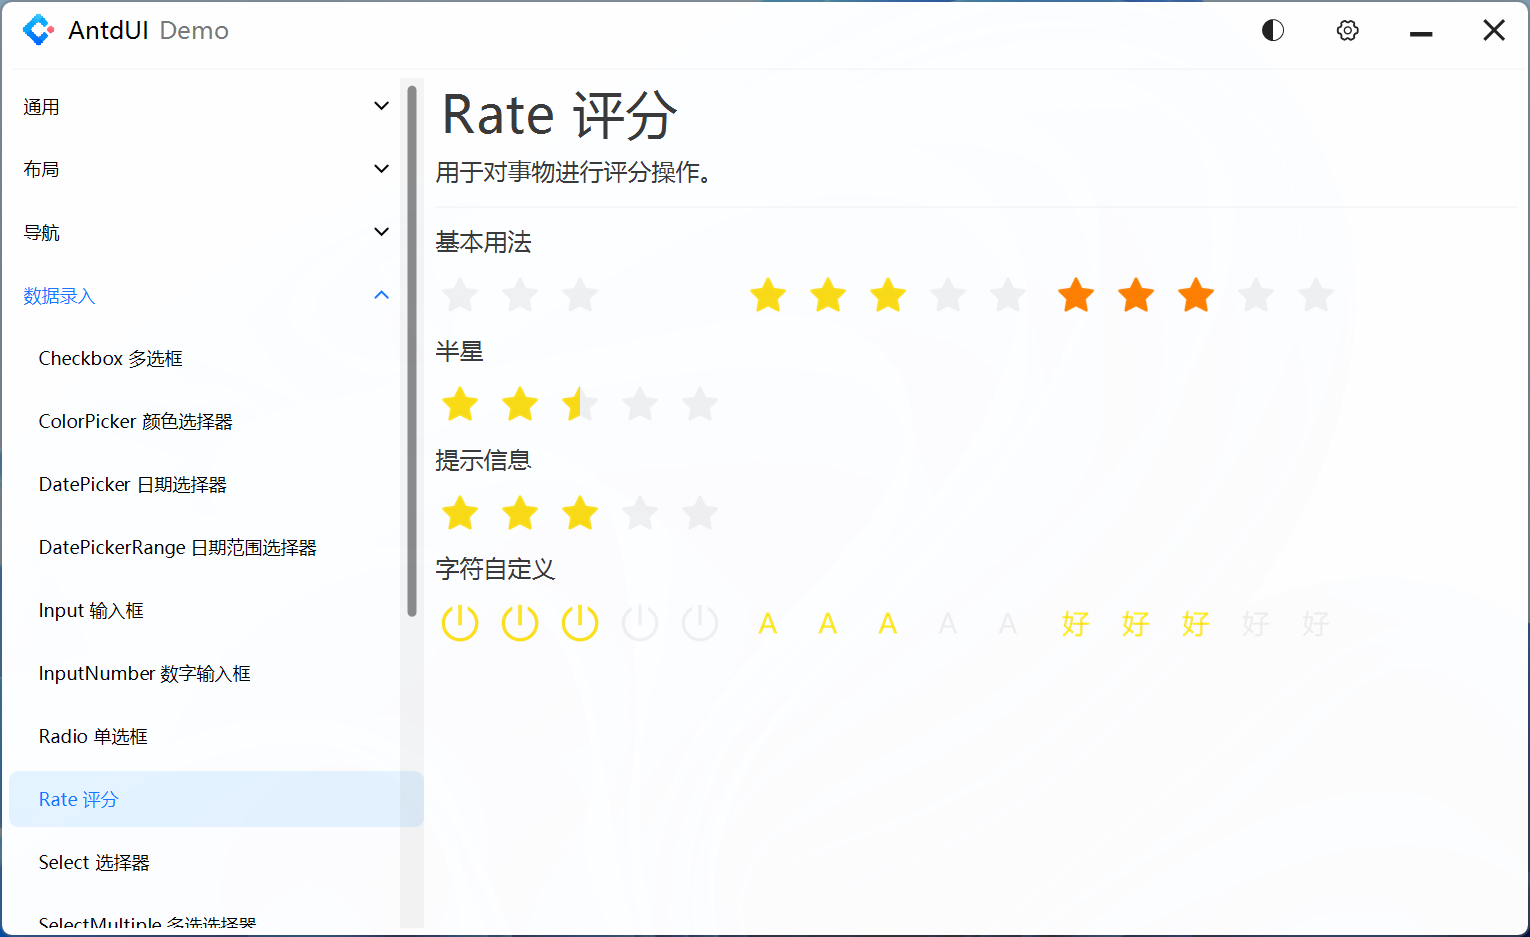
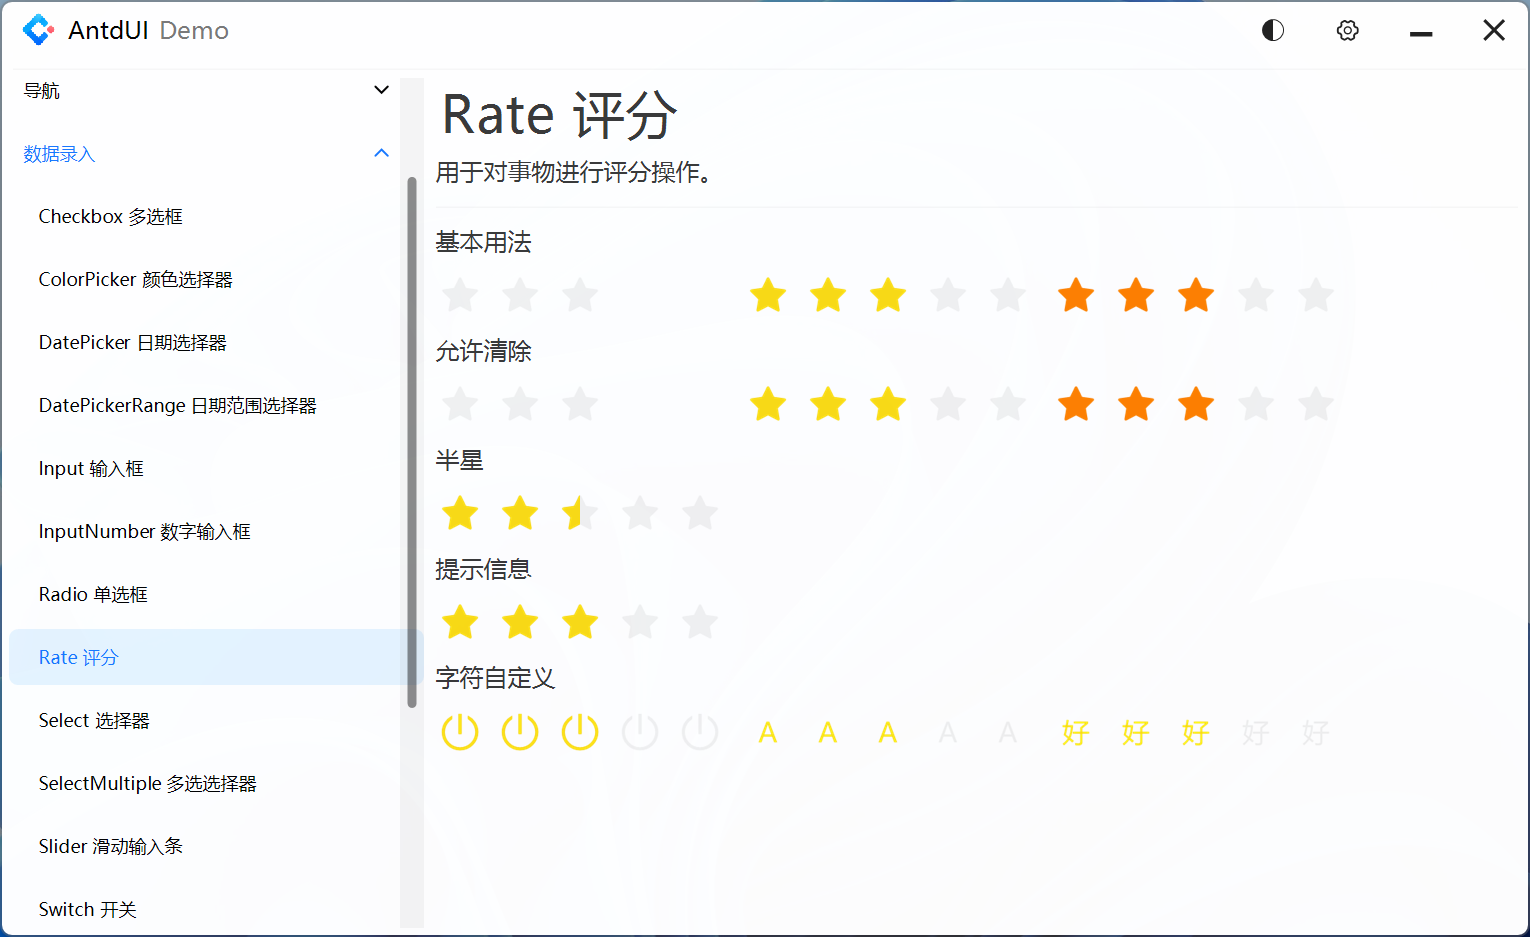
Rate支持清除

diff --git a/Views/RateDemo.Designer.cs b/Views/RateDemo.Designer.cs
@@ -30,7 +30,21 @@
         {
             System.ComponentModel.ComponentResourceManager resources = new System.ComponentModel.ComponentResourceManager(typeof(RateDemo));
             this.stackPanel1 = new AntdUI.StackPanel();
+            this.flowPanel1 = new AntdUI.FlowPanel();
+            this.rate7 = new AntdUI.Rate();
+            this.rate2 = new AntdUI.Rate();
+            this.rate1 = new AntdUI.Rate();
+            this.label3 = new AntdUI.Label();
+            this.divider1 = new AntdUI.Divider();
+            this.label2 = new AntdUI.Label();
+            this.label1 = new AntdUI.Label();
+            this.label7 = new AntdUI.Label();
+            this.flowPanel5 = new AntdUI.FlowPanel();
+            this.rate9 = new AntdUI.Rate();
+            this.rate10 = new AntdUI.Rate();
+            this.rate11 = new AntdUI.Rate();
             this.flowPanel4 = new AntdUI.FlowPanel();
+            this.rate8 = new AntdUI.Rate();
             this.rate6 = new AntdUI.Rate();
             this.rate5 = new AntdUI.Rate();
             this.label6 = new AntdUI.Label();
@@ -40,20 +54,12 @@
             this.flowPanel2 = new AntdUI.FlowPanel();
             this.rate3 = new AntdUI.Rate();
             this.label4 = new AntdUI.Label();
-            this.flowPanel1 = new AntdUI.FlowPanel();
-            this.rate7 = new AntdUI.Rate();
-            this.rate2 = new AntdUI.Rate();
-            this.rate1 = new AntdUI.Rate();
-            this.label3 = new AntdUI.Label();
-            this.divider1 = new AntdUI.Divider();
-            this.label2 = new AntdUI.Label();
-            this.label1 = new AntdUI.Label();
-            this.rate8 = new AntdUI.Rate();
             this.stackPanel1.SuspendLayout();
+            this.flowPanel1.SuspendLayout();
+            this.flowPanel5.SuspendLayout();
             this.flowPanel4.SuspendLayout();
             this.flowPanel3.SuspendLayout();
             this.flowPanel2.SuspendLayout();
-            this.flowPanel1.SuspendLayout();
             this.SuspendLayout();
             // 
             // stackPanel1
@@ -64,6 +70,8 @@
             this.stackPanel1.Controls.Add(this.label5);
             this.stackPanel1.Controls.Add(this.flowPanel2);
             this.stackPanel1.Controls.Add(this.label4);
+            this.stackPanel1.Controls.Add(this.flowPanel5);
+            this.stackPanel1.Controls.Add(this.label7);
             this.stackPanel1.Controls.Add(this.flowPanel1);
             this.stackPanel1.Controls.Add(this.label3);
             this.stackPanel1.Controls.Add(this.divider1);
@@ -72,111 +80,10 @@
             this.stackPanel1.Dock = System.Windows.Forms.DockStyle.Fill;
             this.stackPanel1.Location = new System.Drawing.Point(0, 0);
             this.stackPanel1.Name = "stackPanel1";
-            this.stackPanel1.Size = new System.Drawing.Size(700, 435);
+            this.stackPanel1.Size = new System.Drawing.Size(700, 494);
             this.stackPanel1.TabIndex = 0;
             this.stackPanel1.Text = "stackPanel1";
             this.stackPanel1.Vertical = true;
-            // 
-            // flowPanel4
-            // 
-            this.flowPanel4.Controls.Add(this.rate8);
-            this.flowPanel4.Controls.Add(this.rate6);
-            this.flowPanel4.Controls.Add(this.rate5);
-            this.flowPanel4.Location = new System.Drawing.Point(3, 349);
-            this.flowPanel4.Name = "flowPanel4";
-            this.flowPanel4.Size = new System.Drawing.Size(694, 38);
-            this.flowPanel4.TabIndex = 18;
-            this.flowPanel4.Text = "flowPanel4";
-            // 
-            // rate6
-            // 
-            this.rate6.Character = "A";
-            this.rate6.Location = new System.Drawing.Point(209, 3);
-            this.rate6.Name = "rate6";
-            this.rate6.Size = new System.Drawing.Size(200, 32);
-            this.rate6.TabIndex = 2;
-            this.rate6.Text = "rate6";
-            this.rate6.Value = 3F;
-            // 
-            // rate5
-            // 
-            this.rate5.Character = resources.GetString("rate5.Character");
-            this.rate5.Location = new System.Drawing.Point(3, 3);
-            this.rate5.Name = "rate5";
-            this.rate5.Size = new System.Drawing.Size(200, 32);
-            this.rate5.TabIndex = 1;
-            this.rate5.Text = "rate5";
-            this.rate5.Value = 3F;
-            // 
-            // label6
-            // 
-            this.label6.Font = new System.Drawing.Font("Microsoft YaHei UI", 12F, System.Drawing.FontStyle.Regular, System.Drawing.GraphicsUnit.Point, ((byte)(134)));
-            this.label6.Location = new System.Drawing.Point(3, 319);
-            this.label6.Name = "label6";
-            this.label6.Size = new System.Drawing.Size(694, 24);
-            this.label6.TabIndex = 17;
-            this.label6.Text = "字符自定义";
-            // 
-            // flowPanel3
-            // 
-            this.flowPanel3.Controls.Add(this.rate4);
-            this.flowPanel3.Location = new System.Drawing.Point(3, 275);
-            this.flowPanel3.Name = "flowPanel3";
-            this.flowPanel3.Size = new System.Drawing.Size(694, 38);
-            this.flowPanel3.TabIndex = 16;
-            this.flowPanel3.Text = "flowPanel3";
-            // 
-            // rate4
-            // 
-            this.rate4.Location = new System.Drawing.Point(3, 3);
-            this.rate4.Name = "rate4";
-            this.rate4.Size = new System.Drawing.Size(200, 32);
-            this.rate4.TabIndex = 1;
-            this.rate4.Text = "rate4";
-            this.rate4.Tooltips = new string[] {
-        "terrible",
-        "bad",
-        "normal",
-        "good",
-        "wonderful"};
-            this.rate4.Value = 3F;
-            // 
-            // label5
-            // 
-            this.label5.Font = new System.Drawing.Font("Microsoft YaHei UI", 12F, System.Drawing.FontStyle.Regular, System.Drawing.GraphicsUnit.Point, ((byte)(134)));
-            this.label5.Location = new System.Drawing.Point(3, 245);
-            this.label5.Name = "label5";
-            this.label5.Size = new System.Drawing.Size(694, 24);
-            this.label5.TabIndex = 15;
-            this.label5.Text = "提示信息";
-            // 
-            // flowPanel2
-            // 
-            this.flowPanel2.Controls.Add(this.rate3);
-            this.flowPanel2.Location = new System.Drawing.Point(3, 201);
-            this.flowPanel2.Name = "flowPanel2";
-            this.flowPanel2.Size = new System.Drawing.Size(694, 38);
-            this.flowPanel2.TabIndex = 14;
-            this.flowPanel2.Text = "flowPanel2";
-            // 
-            // rate3
-            // 
-            this.rate3.AllowHalf = true;
-            this.rate3.Location = new System.Drawing.Point(3, 3);
-            this.rate3.Name = "rate3";
-            this.rate3.Size = new System.Drawing.Size(200, 32);
-            this.rate3.TabIndex = 1;
-            this.rate3.Text = "rate3";
-            this.rate3.Value = 2.5F;
-            // 
-            // label4
-            // 
-            this.label4.Font = new System.Drawing.Font("Microsoft YaHei UI", 12F, System.Drawing.FontStyle.Regular, System.Drawing.GraphicsUnit.Point, ((byte)(134)));
-            this.label4.Location = new System.Drawing.Point(3, 171);
-            this.label4.Name = "label4";
-            this.label4.Size = new System.Drawing.Size(694, 24);
-            this.label4.TabIndex = 13;
-            this.label4.Text = "半星";
             // 
             // flowPanel1
             // 
@@ -251,6 +158,68 @@
             this.label1.TabIndex = 8;
             this.label1.Text = "Rate 评分";
             // 
+            // label7
+            // 
+            this.label7.Font = new System.Drawing.Font("Microsoft YaHei UI", 12F, System.Drawing.FontStyle.Regular, System.Drawing.GraphicsUnit.Point, ((byte)(134)));
+            this.label7.Location = new System.Drawing.Point(3, 171);
+            this.label7.Name = "label7";
+            this.label7.Size = new System.Drawing.Size(694, 24);
+            this.label7.TabIndex = 19;
+            this.label7.Text = "允许清除";
+            // 
+            // flowPanel5
+            // 
+            this.flowPanel5.Controls.Add(this.rate9);
+            this.flowPanel5.Controls.Add(this.rate10);
+            this.flowPanel5.Controls.Add(this.rate11);
+            this.flowPanel5.Location = new System.Drawing.Point(3, 201);
+            this.flowPanel5.Name = "flowPanel5";
+            this.flowPanel5.Size = new System.Drawing.Size(694, 38);
+            this.flowPanel5.TabIndex = 20;
+            this.flowPanel5.Text = "flowPanel5";
+            // 
+            // rate9
+            // 
+            this.rate9.AllowClear = true;
+            this.rate9.Fill = System.Drawing.Color.FromArgb(((int)(((byte)(255)))), ((int)(((byte)(128)))), ((int)(((byte)(0)))));
+            this.rate9.Location = new System.Drawing.Point(415, 3);
+            this.rate9.Name = "rate9";
+            this.rate9.Size = new System.Drawing.Size(200, 32);
+            this.rate9.TabIndex = 2;
+            this.rate9.Text = "rate9";
+            this.rate9.Value = 3F;
+            // 
+            // rate10
+            // 
+            this.rate10.AllowClear = true;
+            this.rate10.Location = new System.Drawing.Point(209, 3);
+            this.rate10.Name = "rate10";
+            this.rate10.Size = new System.Drawing.Size(200, 32);
+            this.rate10.TabIndex = 1;
+            this.rate10.Text = "rate10";
+            this.rate10.Value = 3F;
+            // 
+            // rate11
+            // 
+            this.rate11.AllowClear = true;
+            this.rate11.Count = 3;
+            this.rate11.Location = new System.Drawing.Point(3, 3);
+            this.rate11.Name = "rate11";
+            this.rate11.Size = new System.Drawing.Size(200, 32);
+            this.rate11.TabIndex = 0;
+            this.rate11.Text = "rate11";
+            // 
+            // flowPanel4
+            // 
+            this.flowPanel4.Controls.Add(this.rate8);
+            this.flowPanel4.Controls.Add(this.rate6);
+            this.flowPanel4.Controls.Add(this.rate5);
+            this.flowPanel4.Location = new System.Drawing.Point(3, 423);
+            this.flowPanel4.Name = "flowPanel4";
+            this.flowPanel4.Size = new System.Drawing.Size(694, 38);
+            this.flowPanel4.TabIndex = 26;
+            this.flowPanel4.Text = "flowPanel4";
+            // 
             // rate8
             // 
             this.rate8.Character = "好";
@@ -261,17 +230,108 @@
             this.rate8.Text = "rate8";
             this.rate8.Value = 3F;
             // 
+            // rate6
+            // 
+            this.rate6.Character = "A";
+            this.rate6.Location = new System.Drawing.Point(209, 3);
+            this.rate6.Name = "rate6";
+            this.rate6.Size = new System.Drawing.Size(200, 32);
+            this.rate6.TabIndex = 2;
+            this.rate6.Text = "rate6";
+            this.rate6.Value = 3F;
+            // 
+            // rate5
+            // 
+            this.rate5.Character = resources.GetString("rate5.Character");
+            this.rate5.Location = new System.Drawing.Point(3, 3);
+            this.rate5.Name = "rate5";
+            this.rate5.Size = new System.Drawing.Size(200, 32);
+            this.rate5.TabIndex = 1;
+            this.rate5.Text = "rate5";
+            this.rate5.Value = 3F;
+            // 
+            // label6
+            // 
+            this.label6.Font = new System.Drawing.Font("Microsoft YaHei UI", 12F, System.Drawing.FontStyle.Regular, System.Drawing.GraphicsUnit.Point, ((byte)(134)));
+            this.label6.Location = new System.Drawing.Point(3, 393);
+            this.label6.Name = "label6";
+            this.label6.Size = new System.Drawing.Size(694, 24);
+            this.label6.TabIndex = 25;
+            this.label6.Text = "字符自定义";
+            // 
+            // flowPanel3
+            // 
+            this.flowPanel3.Controls.Add(this.rate4);
+            this.flowPanel3.Location = new System.Drawing.Point(3, 349);
+            this.flowPanel3.Name = "flowPanel3";
+            this.flowPanel3.Size = new System.Drawing.Size(694, 38);
+            this.flowPanel3.TabIndex = 24;
+            this.flowPanel3.Text = "flowPanel3";
+            // 
+            // rate4
+            // 
+            this.rate4.Location = new System.Drawing.Point(3, 3);
+            this.rate4.Name = "rate4";
+            this.rate4.Size = new System.Drawing.Size(200, 32);
+            this.rate4.TabIndex = 1;
+            this.rate4.Text = "rate4";
+            this.rate4.Tooltips = new string[] {
+        "terrible",
+        "bad",
+        "normal",
+        "good",
+        "wonderful"};
+            this.rate4.Value = 3F;
+            // 
+            // label5
+            // 
+            this.label5.Font = new System.Drawing.Font("Microsoft YaHei UI", 12F, System.Drawing.FontStyle.Regular, System.Drawing.GraphicsUnit.Point, ((byte)(134)));
+            this.label5.Location = new System.Drawing.Point(3, 319);
+            this.label5.Name = "label5";
+            this.label5.Size = new System.Drawing.Size(694, 24);
+            this.label5.TabIndex = 23;
+            this.label5.Text = "提示信息";
+            // 
+            // flowPanel2
+            // 
+            this.flowPanel2.Controls.Add(this.rate3);
+            this.flowPanel2.Location = new System.Drawing.Point(3, 275);
+            this.flowPanel2.Name = "flowPanel2";
+            this.flowPanel2.Size = new System.Drawing.Size(694, 38);
+            this.flowPanel2.TabIndex = 22;
+            this.flowPanel2.Text = "flowPanel2";
+            // 
+            // rate3
+            // 
+            this.rate3.AllowHalf = true;
+            this.rate3.Location = new System.Drawing.Point(3, 3);
+            this.rate3.Name = "rate3";
+            this.rate3.Size = new System.Drawing.Size(200, 32);
+            this.rate3.TabIndex = 1;
+            this.rate3.Text = "rate3";
+            this.rate3.Value = 2.5F;
+            // 
+            // label4
+            // 
+            this.label4.Font = new System.Drawing.Font("Microsoft YaHei UI", 12F, System.Drawing.FontStyle.Regular, System.Drawing.GraphicsUnit.Point, ((byte)(134)));
+            this.label4.Location = new System.Drawing.Point(3, 245);
+            this.label4.Name = "label4";
+            this.label4.Size = new System.Drawing.Size(694, 24);
+            this.label4.TabIndex = 21;
+            this.label4.Text = "半星";
+            // 
             // RateDemo
             // 
             this.AutoScaleMode = System.Windows.Forms.AutoScaleMode.Inherit;
             this.Controls.Add(this.stackPanel1);
             this.Name = "RateDemo";
-            this.Size = new System.Drawing.Size(700, 435);
+            this.Size = new System.Drawing.Size(700, 494);
             this.stackPanel1.ResumeLayout(false);
+            this.flowPanel1.ResumeLayout(false);
+            this.flowPanel5.ResumeLayout(false);
             this.flowPanel4.ResumeLayout(false);
             this.flowPanel3.ResumeLayout(false);
             this.flowPanel2.ResumeLayout(false);
-            this.flowPanel1.ResumeLayout(false);
             this.ResumeLayout(false);
 
         }
@@ -286,17 +346,22 @@
         private AntdUI.Rate rate1;
         private AntdUI.Label label3;
         private AntdUI.Rate rate2;
-        private AntdUI.Label label4;
-        private AntdUI.FlowPanel flowPanel2;
-        private AntdUI.Rate rate3;
-        private AntdUI.Label label5;
-        private AntdUI.FlowPanel flowPanel3;
-        private AntdUI.Rate rate4;
+        private AntdUI.Rate rate7;
         private AntdUI.FlowPanel flowPanel4;
+        private AntdUI.Rate rate8;
+        private AntdUI.Rate rate6;
         private AntdUI.Rate rate5;
         private AntdUI.Label label6;
-        private AntdUI.Rate rate6;
-        private AntdUI.Rate rate7;
-        private AntdUI.Rate rate8;
+        private AntdUI.FlowPanel flowPanel3;
+        private AntdUI.Rate rate4;
+        private AntdUI.Label label5;
+        private AntdUI.FlowPanel flowPanel2;
+        private AntdUI.Rate rate3;
+        private AntdUI.Label label4;
+        private AntdUI.FlowPanel flowPanel5;
+        private AntdUI.Rate rate9;
+        private AntdUI.Rate rate10;
+        private AntdUI.Rate rate11;
+        private AntdUI.Label label7;
     }
 }
